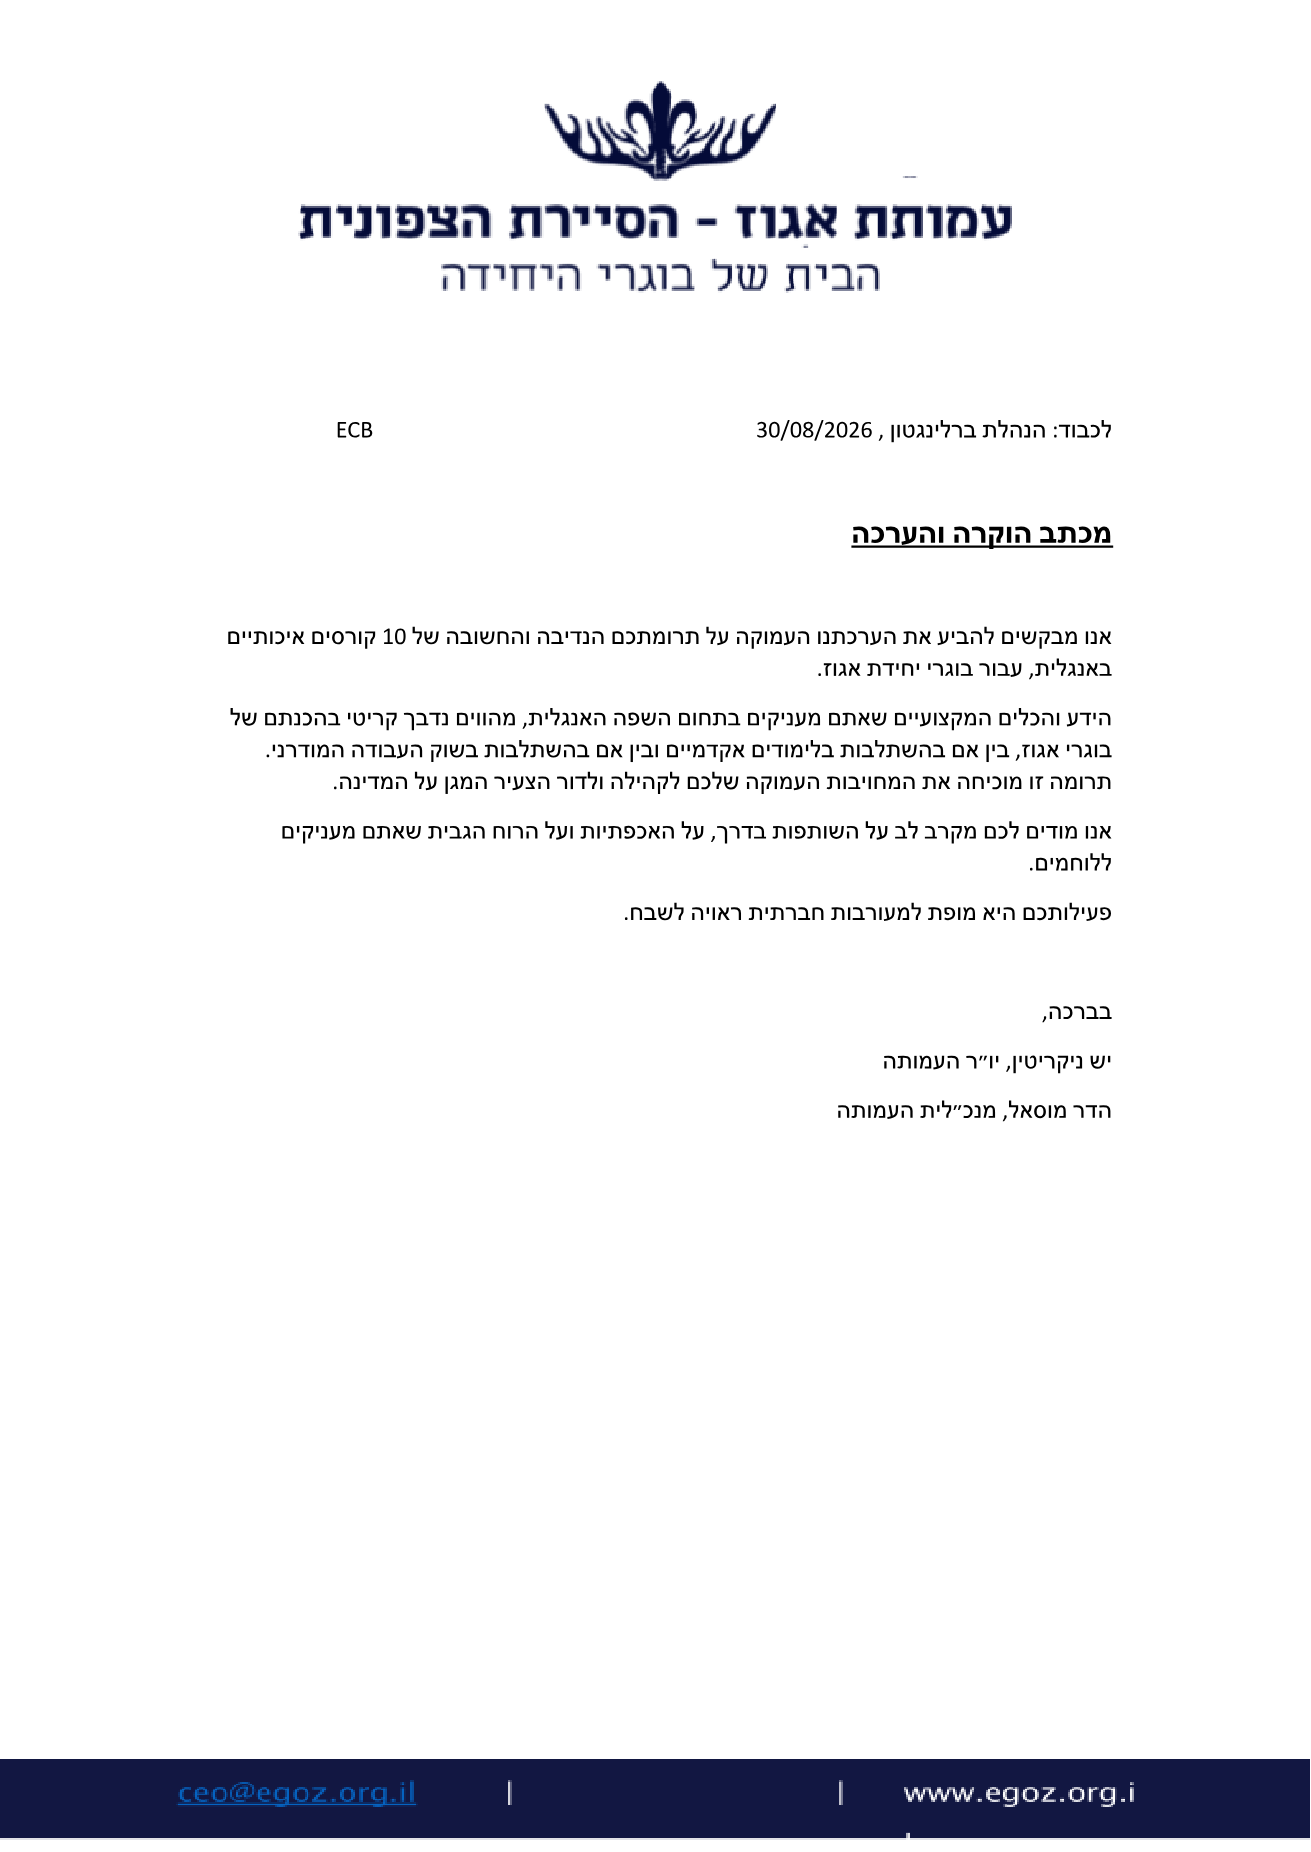
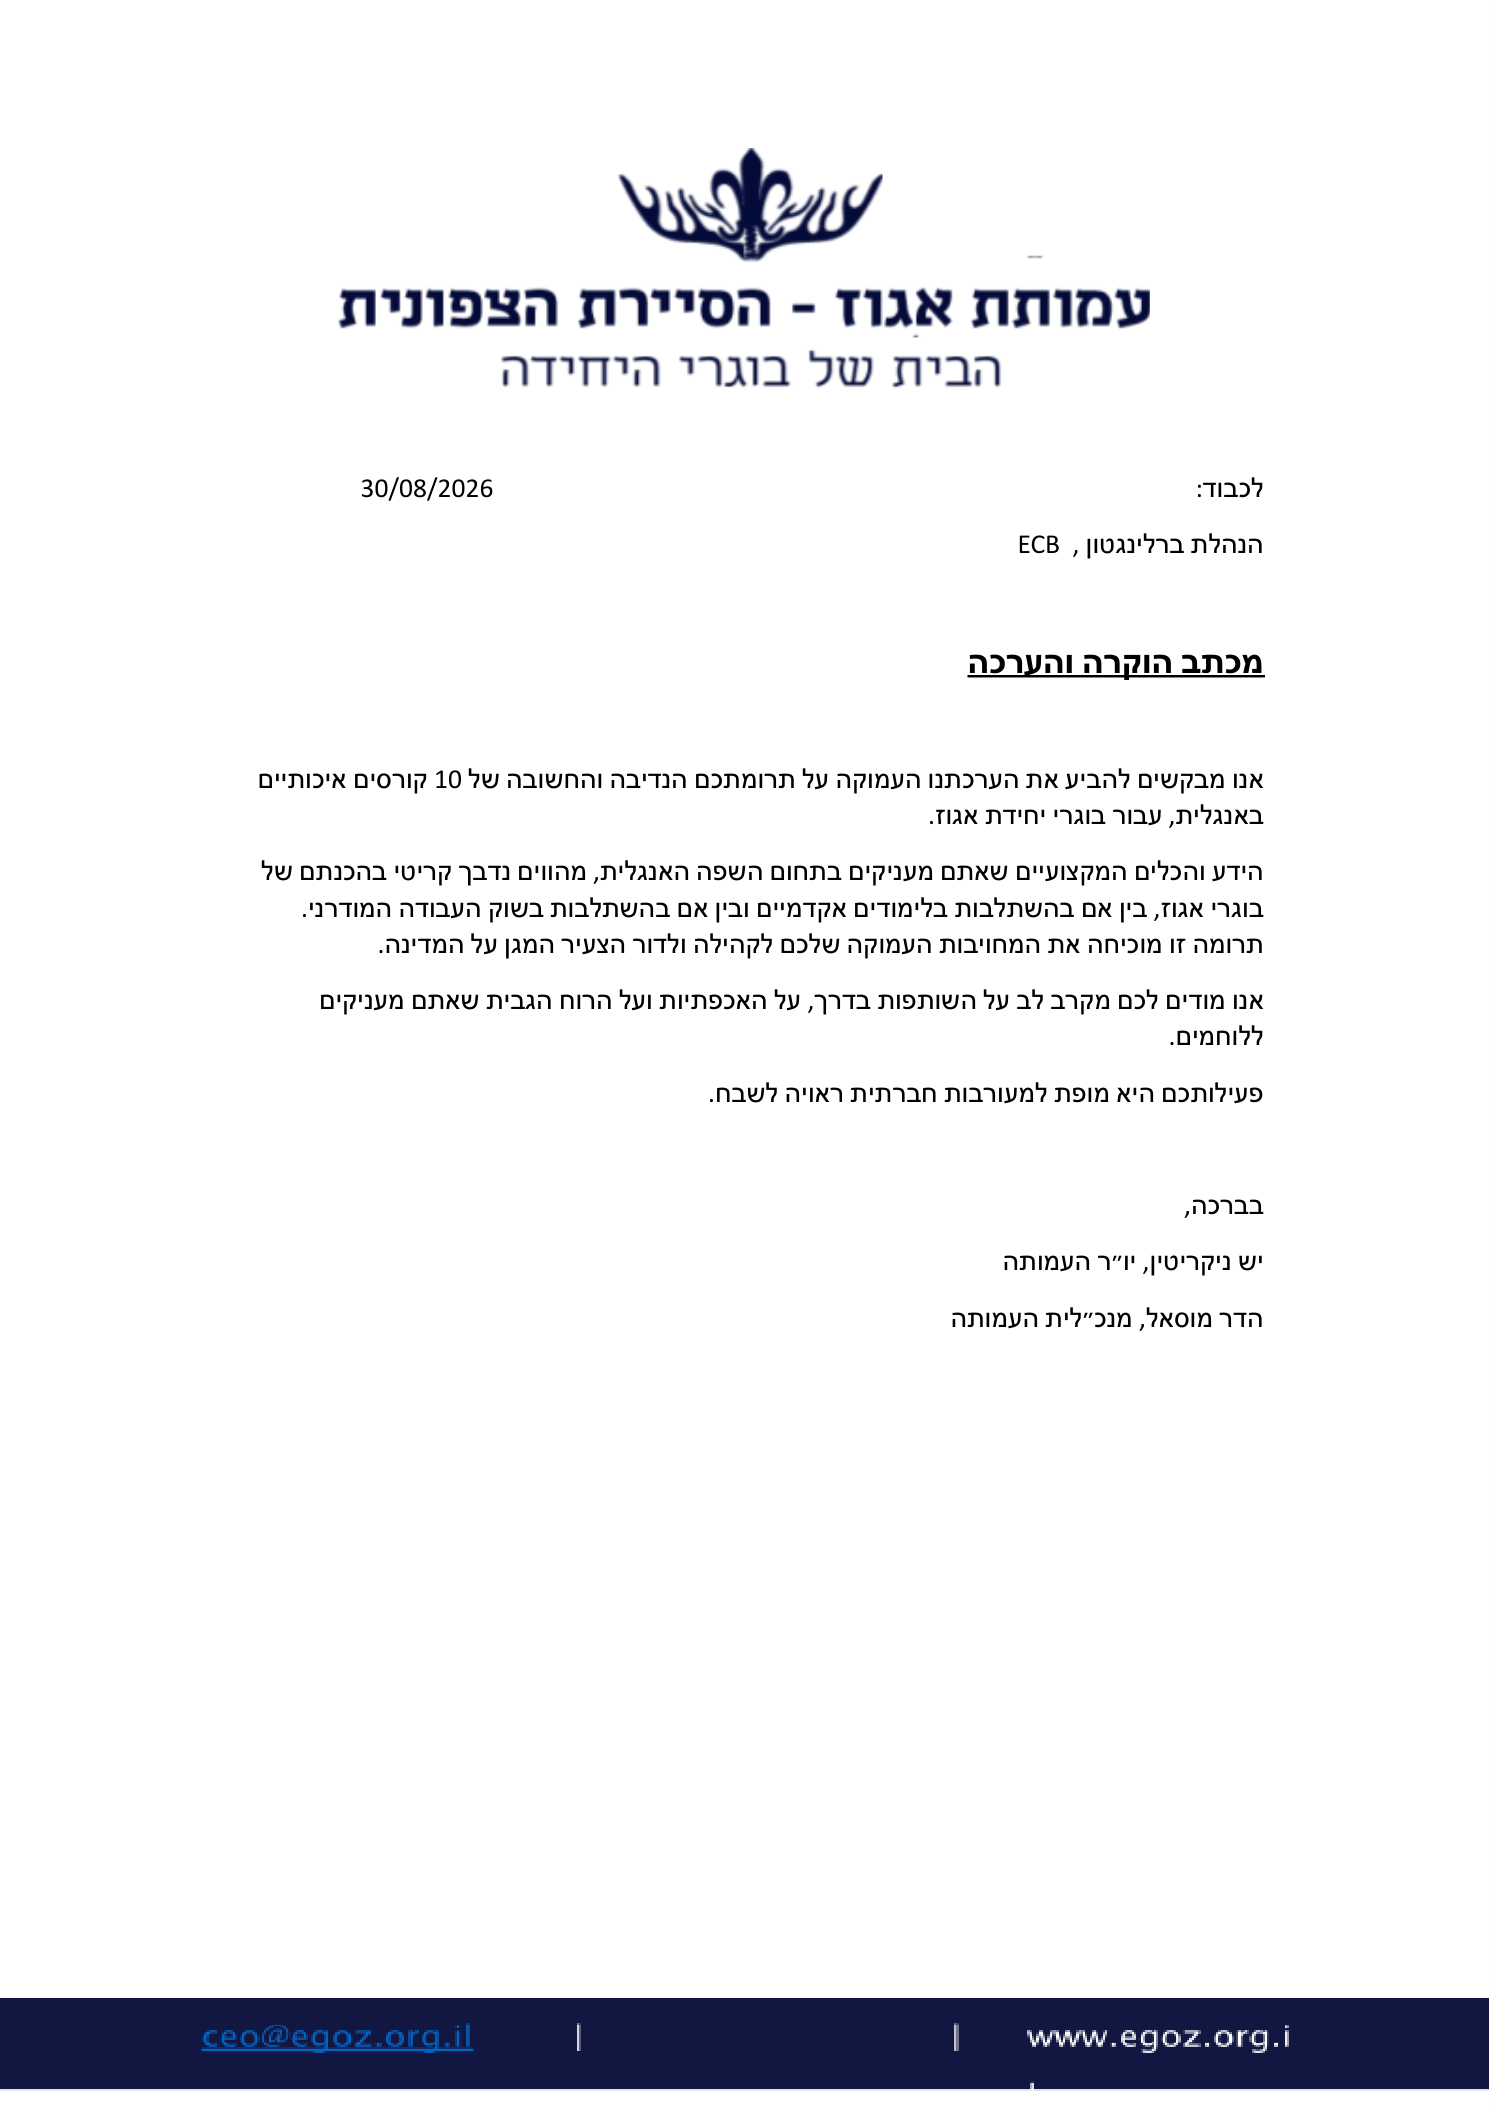
..

diff --git a/community.html b/community.html
@@ -105,7 +105,7 @@
       <article class="community-letter" data-reveal>
         <figure class="community-letter__frame">
           <img
-            src="assets/community-letter-ecb.png"
+            src="assets/community-letter-ecb.png?v=20260902"
             data-i18n-alt="letter.alt"
             alt="מכתב הוקרה והערכה מטעם עמותת אגוז - הסיירת הצפונית"
           />
@@ -117,10 +117,10 @@
           <p>הידע והכלים המקצועיים שאתם מעניקים בתחום השפה האנגלית, מהווים נדבך קריטי בהכנתם של בוגרי אגוז, בין אם בהשתלבות בלימודים אקדמיים ובין אם בהשתלבות בשוק העבודה המודרני. תרומה זו מוכיחה את המחויבות העמוקה שלכם לקהילה ולדור הצעיר המגן על המדינה.</p>
           <p>אנו מודים לכם מקרב לב על השותפות בדרך, על האכפתיות ועל הרוח הגבית שאתם מעניקים ללוחמים.</p>
           <p>פעילותכם היא מופת למעורבות חברתית ראויה לשבח.</p>
-          <p>בברכה, יו״ר העמותה ומנכ״לית העמותה.</p>
+          <p>בברכה, יש ניקריטין, יו״ר העמותה, והדר מוסאל, מנכ״לית העמותה.</p>
         </div>
         <div class="community-letter__actions">
-          <a href="assets/community-letter-ecb.pdf" class="btn btn--accent" target="_blank" rel="noopener" data-i18n="letter.open">פתיחת המכתב ב-PDF</a>
+          <a href="assets/community-letter-ecb.pdf?v=20260902" class="btn btn--accent" target="_blank" rel="noopener" data-i18n="letter.open">פתיחת המכתב ב-PDF</a>
         </div>
       </article>
     </div>
